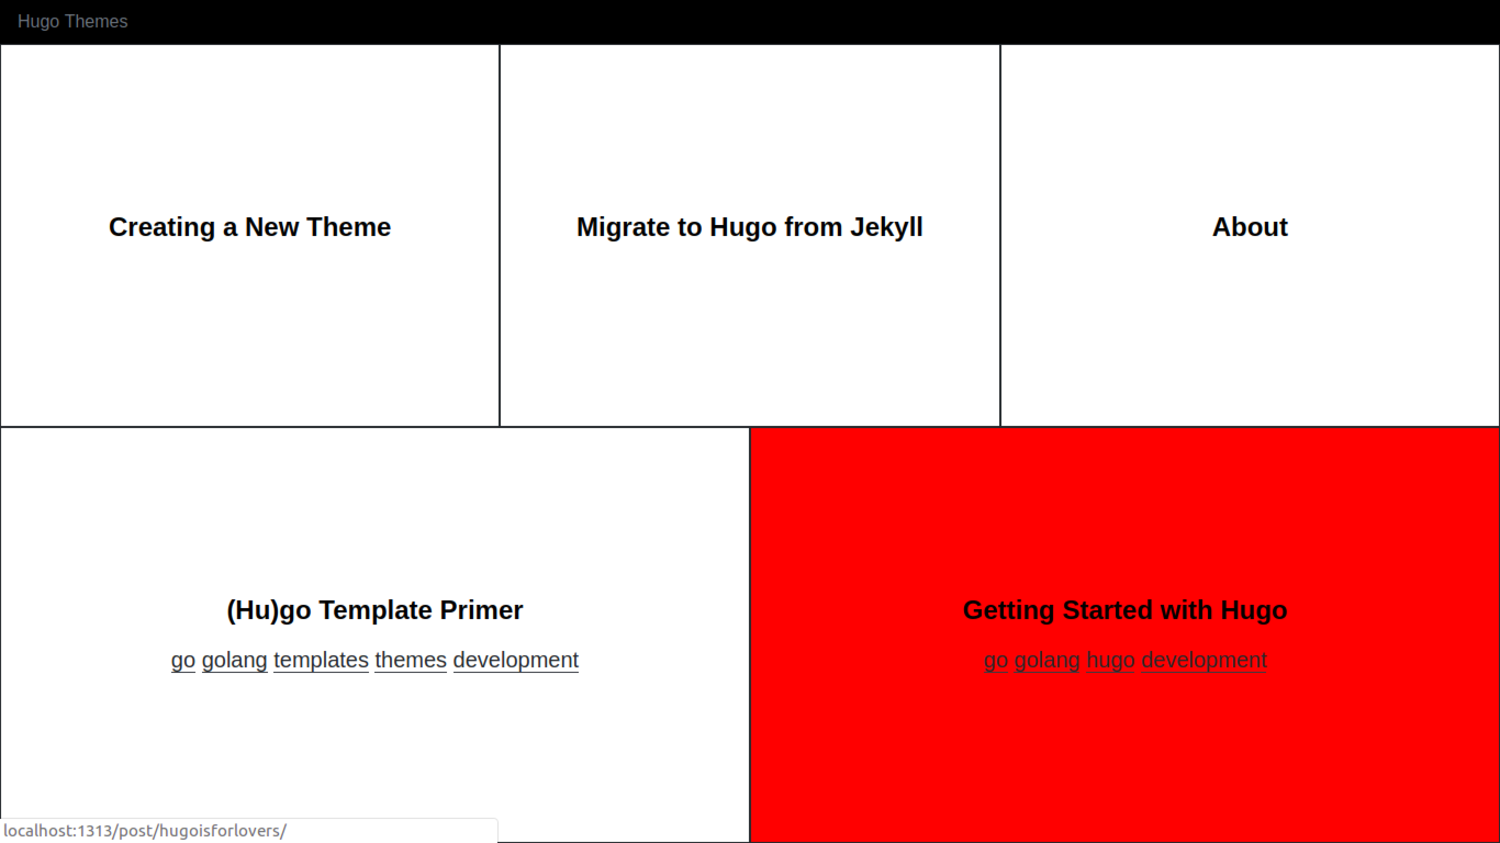
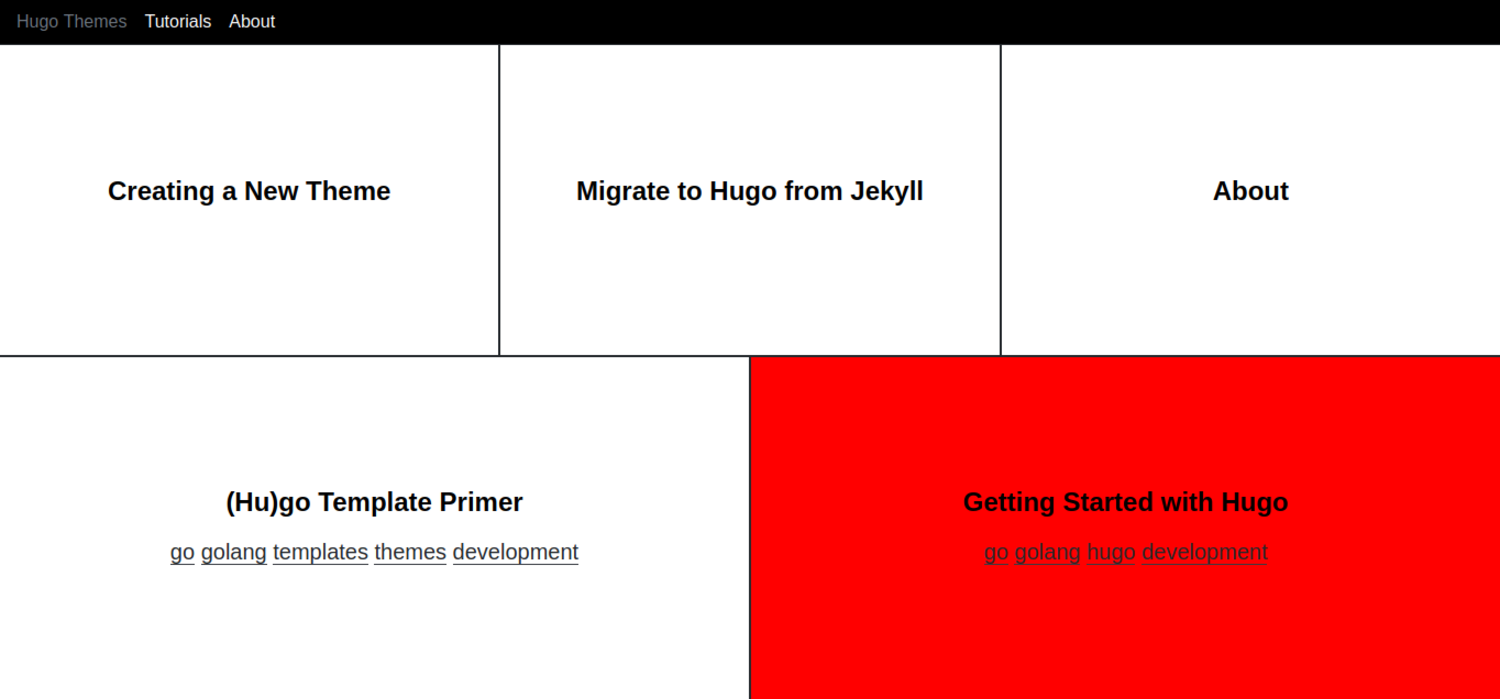
fix missing default nav menu

diff --git a/layouts/partials/header.html b/layouts/partials/header.html
@@ -4,7 +4,7 @@
     <li class="p-2">
       <a class="text-muted text-decoration-none" href="/">{{ .Site.Title }}</a>
     </li>
-    {{ range .Site.Menus.nav }}
+    {{ range .Site.Menus.main }}
       <li class="p-2">
         <a class="text-light" href="{{ .URL }}" title="{{ .Title }}">{{ .Name }}</a>
       </li>
